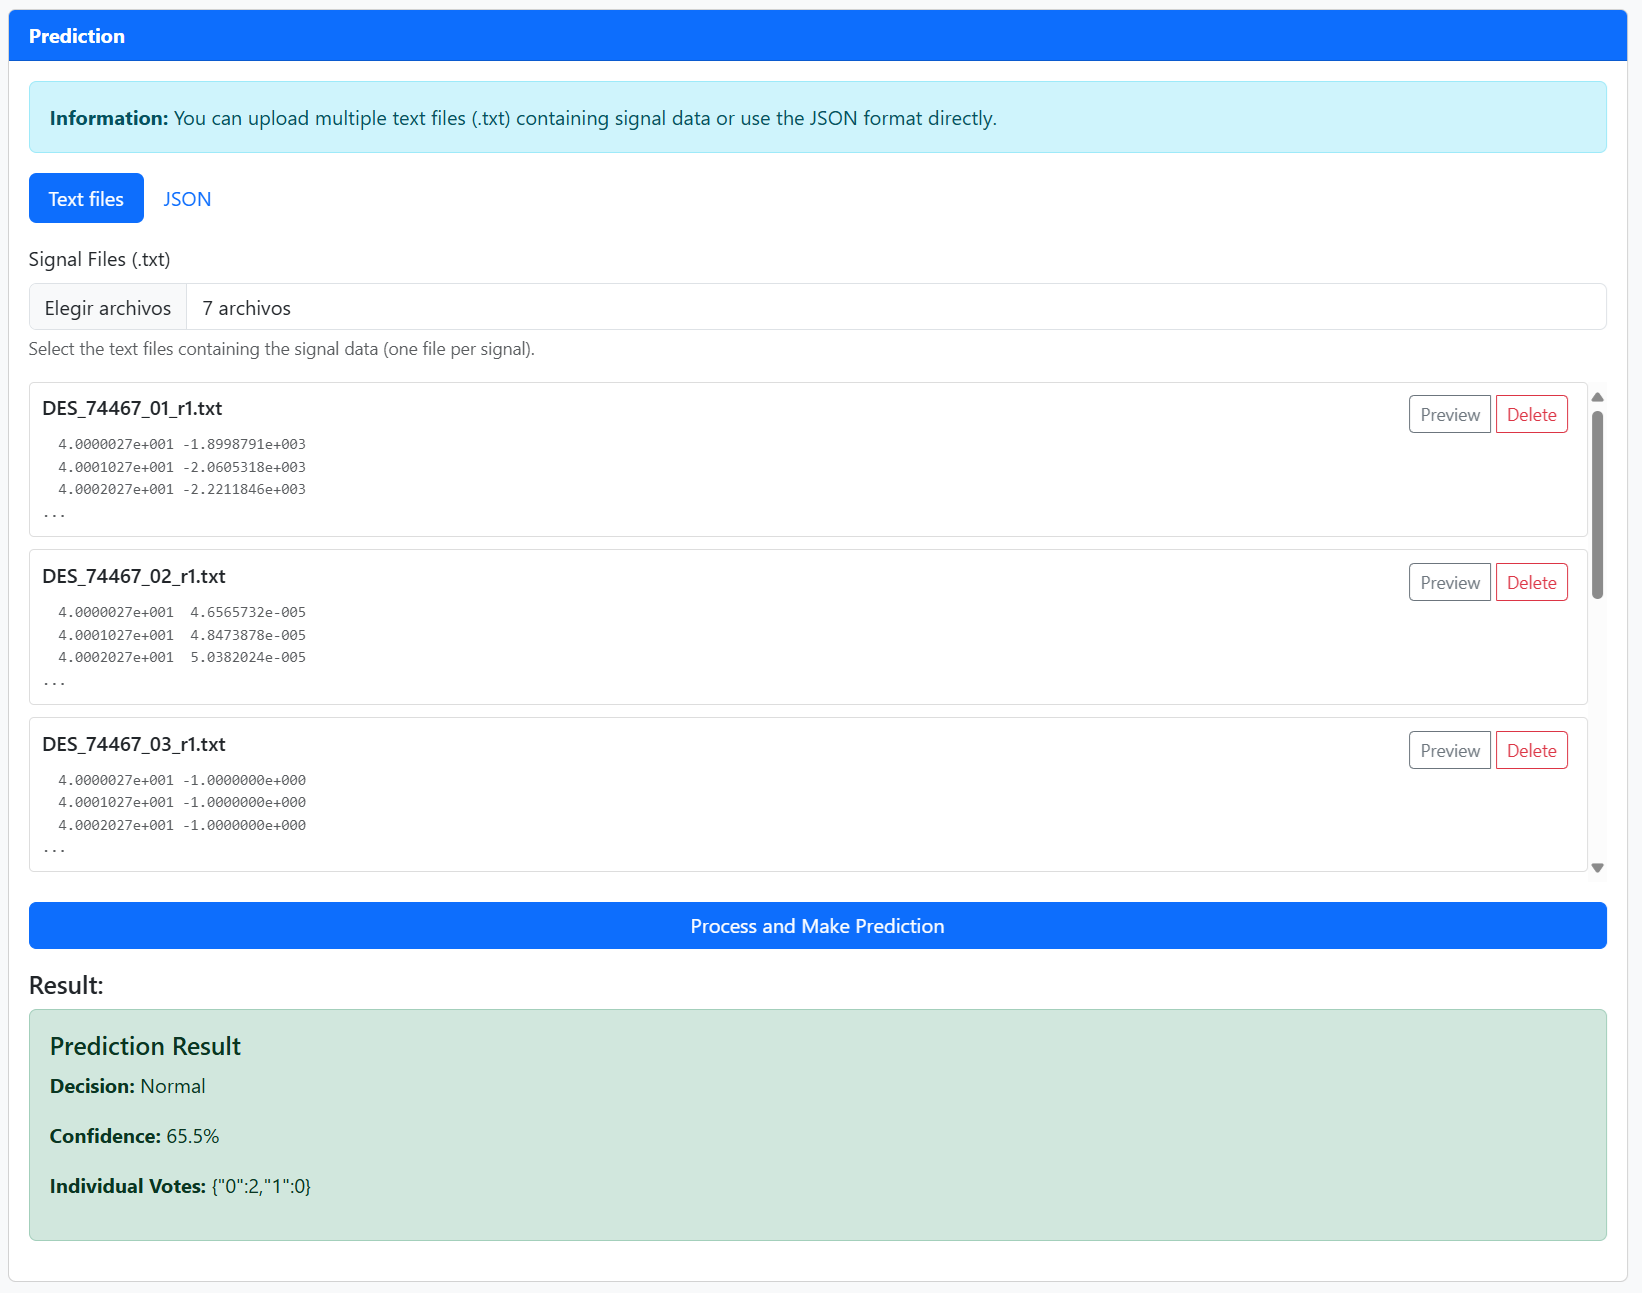
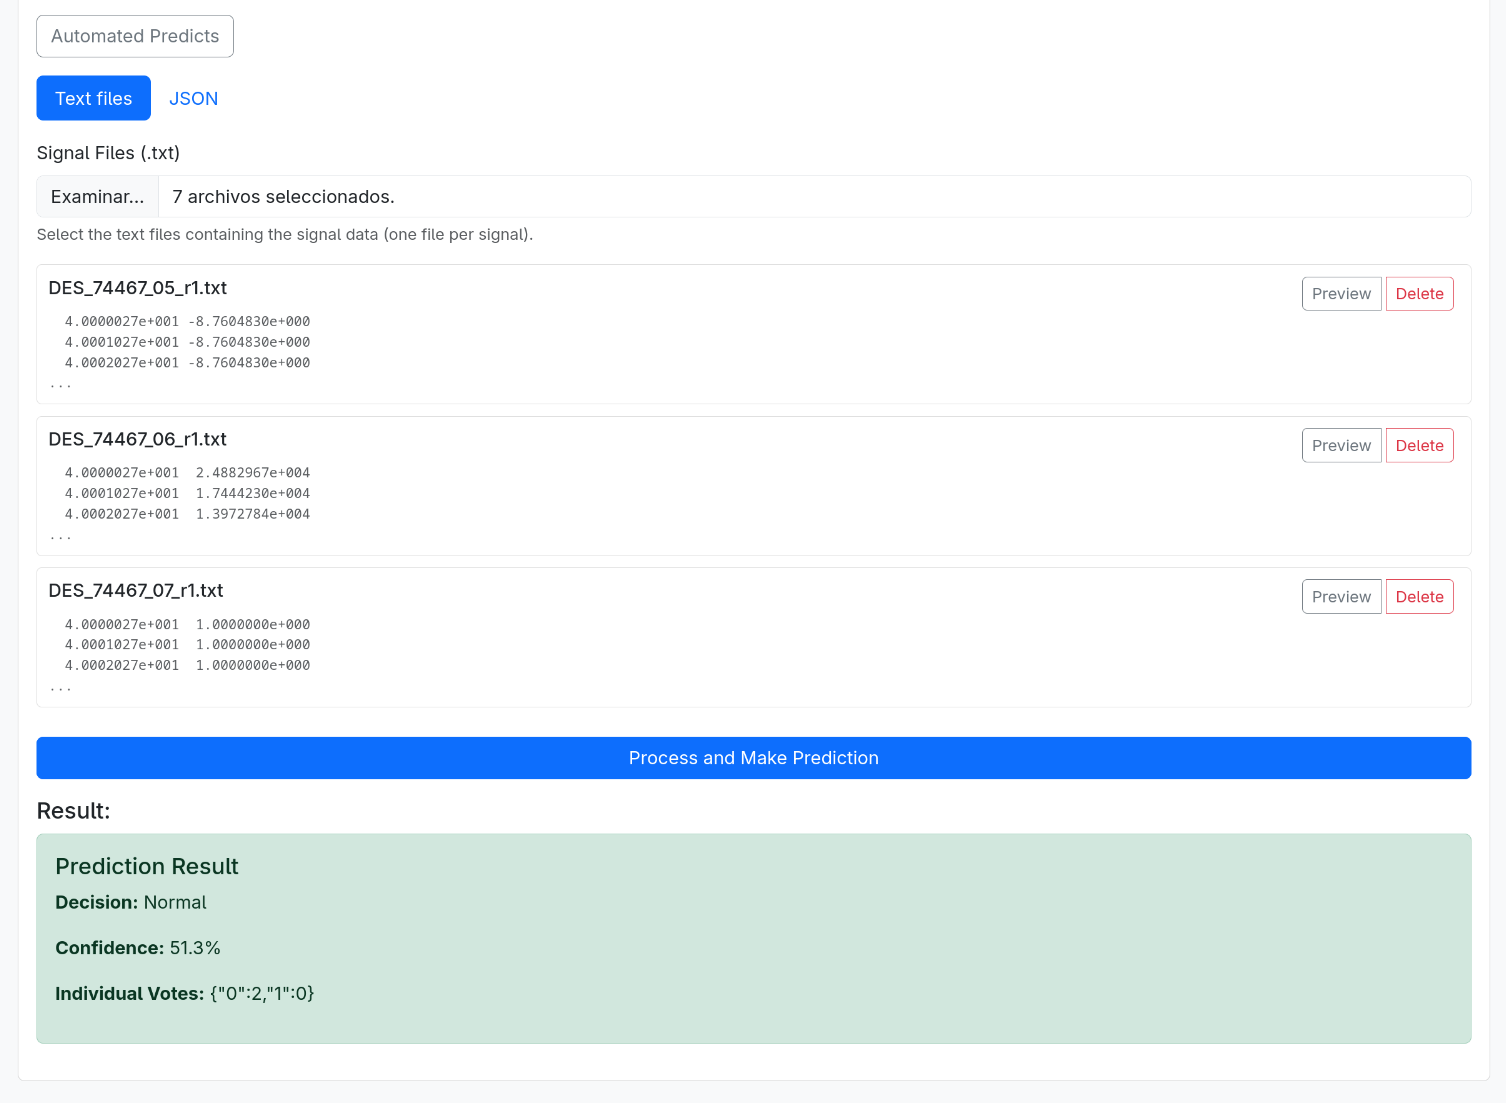
Flight

diff --git a/chapters/cap3-devel.tex b/chapters/cap3-devel.tex
@@ -49,11 +49,11 @@ When the training is done, models must inform the orchestrator, as shown in \aut
 \todo[inline]{Actualizar la figura de predict. En el outlier protocol no están puestas las features que se deben enviar.
 \href{https://github.com/outlierClassifier/outlier_protocol/issues/3}{GH issue 3}}
 
-The \texttt{predict} message is sent by the orchestrator to the alive models. It is a \texttt{POST} message to the \texttt{/predict} model endpoint and simulates online data. For this reason, models must send a prediction per window and the features that have been taken into account for the decision.
+The \texttt{predict} message is sent by the orchestrator to the alive models. It is a \texttt{POST} message to the \texttt{/predict} model endpoint and simulates online data. For this reason, models must send a prediction per window and the features that have been taken into account for the decision. Models must also report a \textit{justification} value, which is the confidence of that window to belong to a class.
 
 \missingfigure{Prediction response message sequence diagram}
 
-\section{Outlier Orchestrator}
+\section{Outlier Orchestrator}\label{sec:orchestrator}
 
 The outlier orchestrator is the central node of the anomaly detection system. It is responsible for managing the data flow between the model nodes, using the outlier protocol to communicate with them.
 
@@ -96,6 +96,17 @@ The prediction tab allows users to make predictions using the available models. 
     \includegraphics[width=\textwidth]{frontend-prediction.png}
     \caption{Frontend prediction tab}
     \label{fig:frontend-prediction}
+\end{figure}
+
+To ease models comparison, prediction orders can be automatically sent for discharges on a folder. As the Outlier Protocol specifies, models must report prediction per window, and add a justification. But models can differ in how do they calculate the final result. For example, as explained on \autoref{sec:models}, SVM calculates the distance to the separation hyperplane, and it is considered disruption if this value is positive, while XGBoost calculates a probability for being disruptive, so a value between 0 and 1 is returned. For this reason, user can set a threshold for a model, which is the first justification value that will be considered disruptive. Also, a \textit{count threshold} can be specified, this is, the number of consecutive windows that need to be labeled as disruptive to consider that discharge as disruptive. This behavior is represented on \autoref{fig:auto-pred}. The modal enables these personalization options for every online model. 
+
+The frontend excludes the unwanted files and fetches the backend's \texttt{/api/ automated-predicts/session} endpoint, which handles user's information. On the backend section there is a detailed explanation of the implementation.
+
+\begin{figure}[H]
+    \centering
+    \includegraphics[width=\textwidth]{frontend-automated-predicts.png}
+    \caption{Automated predictions}
+    \label{fig:auto-pred}
 \end{figure}
 
 \subsubsection{Training Tab}
@@ -160,9 +171,9 @@ The orchestrator is designed to handle multiple models and discharges simultaneo
 
 \subsubsection{Automated predicts and report generation}
 
-To facilitate the prediction process, the orchestrator has a built-in feature that allows automatic predictions. This feature loads a directory and makes sequential predictions for each discharge. Orchestrator groups the files by a regular expression, and sends the discharges to the models one by one. Then, orchestrator stores the results and builds a report with statistical data. These results include raw outputs (prediction output per discharge), and a CSV grouping individual window predictions. Results are explained in \autoref{sec:cap4}. 
+As explained on the frontend section, to facilitate the prediction process, the orchestrator has a built-in feature that allows automatic predictions. This feature loads a directory and makes sequential predictions for each discharge. Orchestrator groups the files by a regular expression, and sends the discharges to the models one by one. Then, orchestrator stores the results and builds a report with statistical data. These results include raw outputs (prediction output per discharge), and a CSV grouping individual window predictions. Results are explained in \autoref{sec:cap4}. The implementation of this feature
 
-\section{Outlier Models}
+\section{Outlier Models}\label{sec:models}
 
 Every model node shall implement the outlier protocol in order to communicate with the orchestrator. This means that every model is a microservice implementing a server that exposes the necessary endpoints to the orchestrator. The models can be implemented in any programming language, as long as they can handle HTTP requests and responses. Models in this project are implemented in Python and Rust.
 
@@ -170,7 +181,7 @@ For compatibility reasons, every model must split discharges in windows of a fix
 
 \subsection{Supervised Binary Classification}
 
-\subsubsection{\acs{SVM}}
+\subsubsection{\acs{SVM}}\label{sec:svm}
 
 This project implements a \ac{SVM} model for anomaly detection, which is trained on both disruptive and non-disruptive discharges. The model is implemented in pure Rust, implementing the outlier protocol using the \texttt{actix\_server} framework for the comunication with the orchestrator's backend, and the \texttt{linfa} crate for the \ac{SVM} implementation. 
 
@@ -182,7 +193,38 @@ The XGBoost model is implemented in Python, using the \texttt{xgboost} library f
 
 Model is also fed with the past features of the discharge, that are used as a tendency to give the model more context about the discharge. This means that the model needs a minimum number of windows to be able to make predictions, which is set to 3 windows by default. As past features are treated like the current features, the model uses a total of 28 features (7 features per window, and 4 windows).
 
-XGBoost predicts the probability of a window being disruptive, so a post-processing step is needed to determine if the discharge is disruptive or not. This post-processing step is done by setting a threshold, which is set to 0.5 by default, and a number of consecutive windows that must be disruptive to consider the discharge as disruptive, which is set to 5 by default. This means that if 5 consecutive windows are above the threshold, the discharge is considered disruptive.
+The necessary parameters to create an XGBoost model with the \texttt{xgboost} library are shown on \autoref{lst:xgboost-params}. These parameters are set to values that have been tested and work well for the project, but they can be modified to improve the model's performance. The \texttt{tree\_method} is set to \texttt{hist} to use a histogram-based algorithm, which is faster and more memory-efficient than the default \texttt{exact} method\todo{Ref}. The \texttt{n\_jobs} parameter is set to -1 to use all available CPU cores for training. The \texttt{objective} is set to \texttt{binary:logistic} for binary classification, and the evaluation metric is set to \texttt{aucpr} (area under the precision-recall curve) for better performance in imbalanced datasets, like the given ones. 
+
+\begin{lstlisting}[language=Python, caption={XGBoost model parameters}, label={lst:xgboost-params}]
+    params = {
+        # Algorithm and hardware settings
+        'tree_method': 'hist',
+        'n_jobs': -1,
+        # Objective and evaluation metrics
+        'objective': 'binary:logistic',
+        'eval_metric': 'aucpr',
+        # Regularization and overfitting control
+        'learning_rate': 0.05,
+        'scale_pos_weight': scale_pos_weight,
+        # Hyperparameters
+        'max_depth': 6,
+        'min_child_weight': 3,
+        'gamma': 1.0,
+        'eta': 0.02,
+        'subsample': 0.8,
+        'colsample_bytree': 0.8,
+    }
+
+    dtrain = xgb.DMatrix(X_array, label=y_array)
+    model = xgb.train(params, 
+                      dtrain, 
+                      num_boost_round=10000, 
+                      verbose_eval=10
+                      )
+
+\end{lstlisting}
+
+XGBoost predicts the probability of a window being disruptive, so a post-processing step is needed to determine if the discharge is disruptive or not. This post-processing step is done by setting a threshold, which is set to 0.5 by default, and a number of consecutive windows that must be disruptive to consider the discharge as disruptive, which is set to 3 by default. This means that if 3 consecutive windows are above the threshold, the discharge is considered disruptive.
 
 
 

diff --git a/apendix/user-manual.tex b/apendix/user-manual.tex
@@ -1,0 +1,36 @@
+\chapter{User Manual}
+
+This section explains how to download and install the software.
+
+\section{Outlier Orchestrator}
+
+\subsection{Requirements}
+
+To run the outlier orchestrator, there are some software requirements that must be satisfied.
+
+\begin{itemize}
+    \item \texttt{Node.js:} v $\geq$ v22.17.1
+    \item \texttt{\ac{npm}:} v $\geq$ 10.9.2
+\end{itemize}
+
+\subsection{Installation}
+
+Clone the repository available in \todo{Referencia al repo}. Install the dependencies with 
+
+\begin{lstlisting}[caption={Using \ac{npm} to install dependencies}]
+    npm install 
+\end{lstlisting}
+
+Run the outlier orchestrator with
+
+\begin{lstlisting}[caption={Running the outlier orchestrator}]
+    npm start
+\end{lstlisting}
+
+Access \hyperbaseurl{http://localhost:3000/}{\texttt{http://localhost:3000/}} on any browser. The outlier frontend must be shown. Backend is already running.
+
+\section{XGBoost}
+
+\subsection{Requirements}
+
+To run this model, Python must be installed on the target machine.

diff --git a/chapters/cap4-results.tex b/chapters/cap4-results.tex
@@ -1,4 +1,16 @@
-\chapter{Results} \label{sec:cap4}
+\chapter{Results}\label{sec:cap4}
 
 This chapter presents the results obtained from the implemented models, including their performance metrics and comparisons. The models are evaluated based on their ability to detect anomalies in the discharge data and the lead time they provide before a disruption occurs.
 
+\section{GitHub Organization}
+
+This project uses \todo{siglas} GIT to handle different versions. As multiple software has been developed in this project, a GitHub Organization has been created in order to ease the cloning process.
+
+The main repositories available on the organization are:
+
+\begin{itemize}
+    \item \textbf{Outlier orchestrator:} This repository contains the orchestrator explained at \autoref{sec:orchestrator}. 
+\end{itemize}
+
+
+\subsection{XGBoost}

diff --git a/main.tex b/main.tex
@@ -52,15 +52,12 @@
 \input{chapters/cap4-results.tex}
 \input{chapters/cap5-budget.tex}
 \input{chapters/cap6-impact.tex}
-
-% Conclusiones (obligatorio)
 \input{chapters/cap7-conclusions.tex}
 
 \label{sec:bibliografía}
 \printbibliography
 
 % Anexo (obligatorio)
-\appendix
-\label{sec:apendice}
+\input{apendix/user-manual.tex}
 
 \end{document}

diff --git a/chapters/acronym.tex b/chapters/acronym.tex
@@ -9,6 +9,7 @@
     \acro{ITER}{International Thermonuclear Experimental Reactor}
     \acro{LSTM}{Long Short-Term Memory}
     \acro{ML}{Machine Learning}
+    \acro{npm}{Node Packet Manager}
     \acro{OC-SVM}{One-Class SVM}
     \acro{RMS}{Root Mean Square}
     \acro{SVM}{Support Vector Machine}
